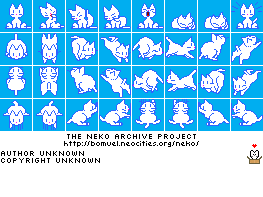
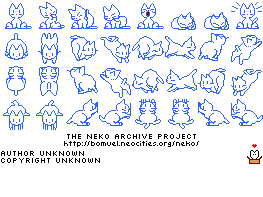
Cat follows immediately; change style to marmelade

diff --git a/src/components/Home.jsx b/src/components/Home.jsx
@@ -14,6 +14,7 @@ function Home () {
       nekoImageUrl: "/peach.png",
       initialPosX: 1000,
       initialPosY: 50,
+      startFollowing: true,
      });
     neko.init();
 

diff --git a/src/components/Home.css b/src/components/Home.css
@@ -33,5 +33,5 @@
 }
 
 #peach {
-  background-image: url('/public/blue-transparent.png') !important;
+  background-image: url('/public/marmalade.png') !important;
 }
